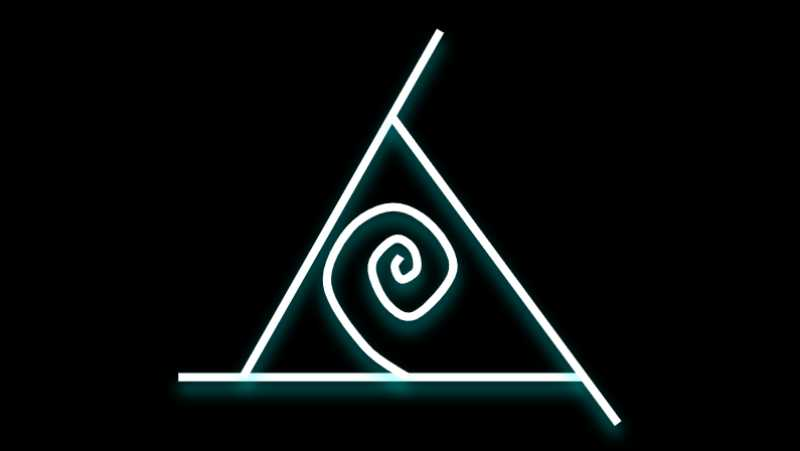
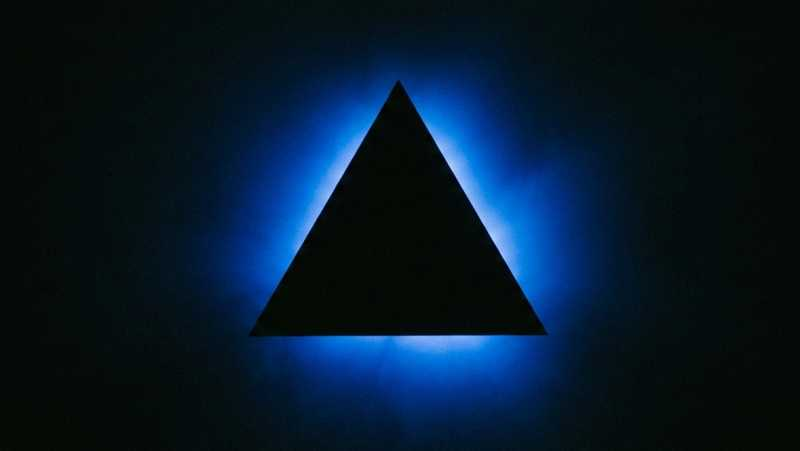
update

diff --git a/content/en/research/other/alien/ra/session-055.md b/content/en/research/other/alien/ra/session-055.md
@@ -12,164 +12,68 @@ tags: ['pyramids', '']
 June 5, 1981
 
 
-55.1 Ra: Carla is physically weaker due to to psychic attack. 
 
-<!-- This instrument’s vital energies have not been affected, however, due to the aid of those present in healing work. This instrument will apparently be subject to such weakness distortions due to incarnative processes which predispose the body complex towards weakness distortions. -->
+{{< l a="Ra" >}} Carla is physically weaker due to psychic attack.
+{{< /l >}}
 
+{{< r a="Don Elkins" >}} How can we alleviate this psychic attack or help Carla?{{< /r >}}
 
-55.2 Questioner: How can we alleviate this psychic attack or help Carla?
+{{< l a="Ra" >}}She appreciates each entity’s caring. A caring atmosphere offers the greatest contrast to the discomfort of such psychic attacks, being the reciprocal, that is, the atmosphere of psychic support. This each of you do as a subconscious function of true attitudinal, mental, emotional, and spiritual distortions towards this instrument. There is no magic greater than honest distortion toward love.{{< /l >}}
 
-Ra: She appreciates each entity’s caring. 
+{{< r a="Don Elkins" >}} I want to ask a couple questions about previous material that I didn’t understand. I’m hoping that this will clear up my understanding somewhat with respect to the mental configurations with which we have been dealing. You stated, “However, this is a risk for the Orion entities due to the frequency with which the harvestable negative planetary entities then attempt to bid or order the Orion contact just as these entities bid planetary negative contacts.” Can you explain the mechanisms that affect polarization in consciousness with respect to this statement?{{< /r >}}
 
-A caring atmosphere offers the greatest contrast to the discomfort of such psychic attacks, being the reciprocal, that is, the atmosphere of psychic support.
+{{< l a="Ra" >}} The negative polarization is greatly aided by the subjugation or enslavement of other-selves. The potential between two negatively polarized entities is such that the entity which enslaves the other or bids the other gains in negative polarity. The entity so bidden or enslaved, in serving an other-self, will necessarily lose negative polarity although it will gain in desire for further negative polarization. This desire will then tend to create opportunities to regain negative polarity.{{< /l >}}
 
-This each of you do as a subconscious function of true attitudinal, mental, emotional, and spiritual distortions towards this instrument. There is no magic greater than honest distortion toward love.
+{{< r a="Don Elkins" >}} The third-density entity on this planet calls an Orion Crusader. Is this a polarizing type of action that affects both entities?{{< /r >}}
 
+{{< l a="Ra" >}} This is incorrect. The calling mechanism is not congruent at all with the bidding mechanism. In the calling, the entity which calls is a suppliant neophyte asking for aid in negative understanding, if you may excuse this misnomer. The Orion response increases its negative polarity as it is disseminating the negative philosophy, thereby enslaving or bidding the entity calling. There are instances, however, when the contact becomes a contest which is prototypical of negativity. In this contest, the caller will attempt, not to ask for aid, but to demand results. Since the third-density negatively oriented harvestable entity has at its disposal an incarnative experiential nexus and since Orion Crusaders are, in a great extent, bound by the first distortion in order to progress, the Orion entity is vulnerable to such bidding if properly done. In this case, the third-density entity becomes master and the Orion Crusader becomes entrapped and can be bid. This is rare. However, when it has occurred, the Orion entity or social memory complex involved has experienced loss of negative polarity in proportion to the strength of the bidding third-density entity.{{< /l >}}
 
-55.3 Questioner: I want to ask a couple questions about previous material that I didn’t understand. I’m hoping that this will clear up my understanding somewhat with respect to the mental configurations with which we have been dealing.
+{{< r a="Don Elkins" >}} You mentioned that this will work when the bidding is properly done. What did you mean?{{< /r >}}
 
-you stated, “However, this is a risk for the Orion entities due to the frequency with which the harvestable negative planetary entities then attempt to bid or order the Orion contact just as these entities bid planetary negative contacts.” Can you explain the mechanisms that affect polarization in consciousness with respect to this statement?
+{{< l a="Ra" >}} To properly bid is to be properly negative. The percentage of thought and behavior involving service to self must approach 99% in order for a third-density negative entity to be properly configured for such a contest of bidding.{{< /l >}}
 
-Ra:  The negative polarization is greatly aided by the subjugation or enslavement of other-selves. The potential between two negatively polarized entities is such that the entity which enslaves the other or bids the other gains in negative polarity.
+{{< r a="Don Elkins" >}} What method of communication with the Orion entity would a negative bidder of this type use?{{< /r >}}
 
-The entity so bidden or enslaved, in serving an other-self, will necessarily lose negative polarity although it will gain in desire for further negative polarization. This desire will then tend to create opportunities to regain negative polarity.
+{{< l a="Ra" >}} The two most usual types of bidding are: 1. The use of perversions of sexual magic; 2. The use of perversions of ritual magic. In each case, the key to success is the purity of the will of the bidder. The concentration upon victory over the servant must be nearly perfect.{{< /l >}}
 
+{{< r a="Don Elkins" >}} In the polarizations in consciousness is there any analogy with respect to this bidding contact with the one we are doing now with Ra?{{< /r >}}
 
+{{< l a="Ra" >}} There is no relationship between this type of contact and the bidding process. This contact is typical of the Brothers and Sisters of Sorrow wherein those receiving the contact have attempted to prepare for such contact by sacrificing extraneous, self-oriented distortions in order to be of service. The Ra social memory complex offers itself also as a function of its desire to serve. Both the caller and the contact are filled with gratitude at the opportunity of serving others. This does not mean that either the callers or those of our group approach a perfection or purity as that of the bidding process. The calling group may have many distortions and be working with much catalyst, as may those of Ra. The overriding desire to serve others, bonded with the unique harmonics of this group’s vibratory complexes, gives us the opportunity to serve as one channel for the One Infinite Creator. Things come not to those positively oriented but through such beings.{{< /l >}}
 
-55.4 Questioner: The 3rd-density entity on this planet calls an Orion Crusader. Is this a polarizing type of action that affects both entities?
+{{< r a="Don Elkins" >}} You stated at an earlier time “until transfers of energy of all types have been experienced and mastered to a great extent, there will be blockages in the blue and indigo radiations.” You had stated that “we (that is Ra) had been aided by shapes such as the pyramid, so that we could aid your people with a shape such as the pyramid.” These shapes have been mentioned many, many times and you have also stated that the shapes themselves aren’t of too much consequence. I see a relation between these shapes and the energies that we have been studying with respect to the body, and I would like to ask a few questions on the pyramid to see if I might get an entry into some of this understanding. You stated, “You will find the intersection of the triangle which is at the first level on each of the four sides forms a diamond in a plane which is horizontal.” Can you tell me what you meant by the word, intersection?{{< /r >}}
 
-Ra:  This is incorrect. 
+{{< l a="Ra" >}} Your mathematics and arithmetic have a paucity of configurative descriptions which we might use. The purpose of the shapes is to work with time/space portions of the mind/body/spirit complex. Therefore, the intersection is both space/time and time/space oriented and thus is expressed in 3D geometry by 2 intersections which, when projected in both time/space and space/time, form one point.{{< /l >}}
 
-The calling mechanism is not congruent at all with the bidding mechanism. 
+{{< r a="Don Elkins" >}} I have calculated this point to be 1/6 of the height of the triangle that forms the side of the pyramid.{{< /r >}}
 
-In the calling, the entity which calls is a suppliant neophyte asking for aid in negative understanding, if you may excuse this misnomer. 
+{{< l a="Ra" >}} Your calculations are substantially correct and we are pleased at your perspicacity.{{< /l >}}
 
-The Orion response increases its negative polarity as it is disseminating the negative philosophy, thereby enslaving or bidding the entity calling.
+{{< r a="Don Elkins" >}} This means that the Queen’s Chamber in the Giza Pyramid would be the chamber for initiation. Is this correct?{{< /r >}}
 
-There are instances, however, when the contact becomes a contest which is prototypical of negativity. 
+{{< l a="Ra" >}} Again, you penetrate the outer teaching. The Queen’s Chamber would not be appropriate or useful for healing work as that work involves the use of energy in a more synergic configuration rather than the configuration of the centered being.{{< /l >}}
 
-In this contest, the caller will attempt, not to ask for aid, but to demand results. Since the third-density negatively oriented harvestable entity has at its disposal an incarnative experiential nexus and since Orion Crusaders are, in a great extent, bound by the first distortion in order to progress, the Orion entity is vulnerable to such bidding if properly done. In this case, the third-density entity becomes master and the Orion Crusader becomes entrapped and can be bid. 
+{{< r a="Don Elkins" >}} So the healing work is done in the King’s Chamber?{{< /r >}}
 
-This is rare. 
+{{< l a="Ra" >}} Yes.{{< /l >}}
 
-However, when it has occurred, the Orion entity or social memory complex involved has experienced loss of negative polarity in proportion to the strength of the bidding third-density entity.
+{{< r a="Don Elkins" >}} There is a chamber below the bottom level of the pyramid, down below ground, that appears to be roughly in line with the King’s Chamber.{{< /r >}}
 
+{{< l a="Ra" >}} That is a resonating chamber. The bottom of such a structure, in order to cause the appropriate distortions for healing catalyst, shall be open.{{< /l >}}
 
-55.5 Questioner: You mentioned that this will work when the bidding is properly done. What did you mean?
+{{< r a="Don Elkins" >}} The book, Life Force in the Great Pyramid, they have related the ankh shape with a resonance in the pyramid. Is this a correct analysis?{{< /r >}}
 
-Ra:  To properly bid is to be properly negative. 
+{{< l a="Ra" >}} We have scanned your mind and find the phrase “working with crayons.” This would be applicable. There is only one significance to these shapes such as the crux ansata; that is the placing in coded form of mathematical relationships.{{< /l >}}
 
-The percentage of thought and behavior involving service to self must approach 99% in order for a third-density negative entity to be properly configured for such a contest of bidding.
+{{< r a="Don Elkins" >}} Is the 76° 18′ angle at the apex of the pyramid a critical angle?{{< /r >}}
 
+{{< l a="Ra" >}} For the healing work intended, this angle is appropriate.{{< /l >}}
 
-55.6 Questioner: What method of communication with the Orion entity would a negative bidder of this type use?
+{{< r a="Don Elkins" >}} Why does the King’s Chamber have the various small chambers above it?{{< /r >}}
 
+{{< l a="Ra" >}} The positioning of the entity to be healed is such that the life energies are in a position to be briefly interrupted or intersected by light. This light then may, by the catalyst of the healer with the crystal, manipulate the auric forces, as you may call the various energy centers, in such a way that if the entity to be healed wills it so, corrections may take place. Then the entity is reprotected by its own, now less distorted, energy field and is able to go its way. The process by which this is done involves bringing the entity to be healed to an equilibrium. This involves temperature, barometric pressure, and electrical charged atmosphere. The first two requirements are controlled by the system of chimneys.{{< /l >}}
 
-Ra:  The two most usual types of bidding are:
+{{< r a="Don Elkins" >}} Does this healing work by affecting the energy centers in such a way that they are unblocked so as to perfect the seven bodies that they generate and, therefore, bring the entity being healed into proper balance?{{< /r >}}
 
-1. The use of perversions of sexual magic
-2. The use of perversions of ritual magic
+{{< l a="Ra" >}} Carla is tired. The distorted configuration of the energy centers is intended to be temporarily interrupted. The patient then can grasp the baton and take the balanced route and to walk thence with the distortions towards dis-ease of mind, body, and spirit greatly lessened. The catalytic effect of the charged atmosphere and the crystal directed by the healer must be taken into consideration as integral portions of this process. For the bringing back of the entity to a configuration of conscious awareness would not be accomplished after the reorganization possibilities are offered without the healer’s presence and directed will.{{< /l >}}
 
-In each case, the key to success is the purity of the will of the bidder. 
-
-The concentration upon victory over the servant must be nearly perfect.
-
-
-55.7 Questioner: in the polarizations in consciousness is there any analogy with respect to this bidding contact with the one we are doing now with Ra?
-
-Ra:  There is no relationship between this type of contact and the bidding process. 
-
-This contact is a typical of the Brothers and Sisters of Sorrow wherein those receiving the contact have attempted to prepare for such contact by sacrificing extraneous, self-oriented distortions in order to be of service.
-
-The Ra social memory complex offers itself also as a function of its desire to serve. 
-
-Both the caller and the contact are filled with gratitude at the opportunity of serving others.
-
-This does not mean that either the callers or those of our group approach a perfection or purity as that of the bidding process.
-
-The calling group may have many distortions and be working with much catalyst, as may those of Ra. 
-
-**The overriding desire to serve others**, bonded with the unique harmonics of this group’s vibratory complexes, gives us the opportunity to serve as one channel for the One Infinite Creator.
-
-Things come not to those positively oriented but through such beings.
-
-
-55.8 Questioner: You stated an earlier time “until transfers of energy of all types have been experienced and mastered to a great extent, there will be blockages in the blue and indigo radiations.” 
-
-Ra:  At this space/time we have not covered the appropriate intermediate material.
-
-you had stated that “we (that is Ra) had been aided by shapes such as the pyramid, so that we could aid your people with a shape such as the pyramid.” These shapes have been mentioned many, many times and you have also stated that the shapes themselves aren’t of too much consequence. I see a relation between these shapes and the energies that we have been studying with respect to the body, and I would like to ask a few questions on the pyramid to see if I might get an entry into some of this understanding.
-
-You stated, “You will find the intersection of the triangle which is at the first level on each of the four sides forms a diamond in a plane which is horizontal.” Can you tell me what you meant by the word, intersection?
-
-
-Ra:  Your mathematics and arithmetic have a paucity of configurative descriptions which we might use. 
-
-The purpose of the shapes is to work with time/space portions of the mind/body/spirit complex. 
-
-Therefore, the intersection is both space/time and time/space oriented and thus is expressed in 3D geometry by 2 intersections which, when projected in both time/space and space/time, form one point.
-
-
-55.10 Questioner: I have calculated this point to be 1/6 of the height of the triangle that forms the side of the pyramid.
-
-Ra:  Your calculations are substantially correct and we are pleased at your perspicacity.
-
-
-55.11 Questioner: This means that the Queen’s Chamber in the Giza Pyramid would be the chamber for initiation. Is this correct?
-
-Ra:  Again, you penetrate the outer teaching.
-
-The Queen’s Chamber would not be appropriate or useful for healing work as that work involves the use of energy in a more synergic configuration rather than the configuration of the centered being.
-
-
-55.12 Questioner: So the healing work is done in the King’s Chamber?
-
-Ra:  Yes
-
-55.13 Questioner: There is a chamber below the bottom level of the pyramid, down below ground, that appears to be roughly in line with the King’s Chamber.
-
-Ra: That is a resonating chamber. The bottom of such a structure, in order to cause the appropriate distortions for healing catalyst, shall be open.
-
-55.14 Questioner: The book, Life Force in the Great Pyramid, they have related the ankh shape with a resonance in the pyramid. Is this a correct analysis?
-
-Ra:  We have scanned your mind and find the phrase “working with crayons.” This would be applicable. 
-
-There is only one significance to these shapes such as the crux ansata; that is the placing in coded form of mathematical relationships.
-
-
-55.15 Questioner: Is the 76° 18′ angle at the apex of the pyramid a critical angle?
-
-Ra:  For the healing work intended, this angle is appropriate.
-
-
-55.16 Questioner: Why does the King’s Chamber have the various small chambers above it?
-
-Ra: The positioning of the entity to be healed is such that the life energies are in a position to be briefly interrupted or intersected by light. 
-
-This light then may, by the catalyst of the healer with the crystal, manipulate the aural forces, as you may call the various energy centers, in such a way that if the entity to be healed wills it so, corrections may take place. 
-
-Then the entity is reprotected by its own, now less distorted, energy field and is able to go its way.
-
-The process by which this is done involves bringing the entity to be healed to an equilibrium. 
-
-This involves:
-- temperature
-- barometric pressure
-- electrical charged atmosphere
-
-The first 2 requirements are controlled by the system of chimneys.
-
-
-
-55.17 Questioner: Does this healing work by affecting the energy centers in such a way that they are unblocked so as to perfect the seven bodies that they generate and, therefore, bring the entity being healed into proper balance?
-
-Ra: Carla is tired. 
-
-The distorted configuration of the energy centers is intended to be temporarily interrupted.
-
-The patient then can grasp the baton and take the balanced route and to walk thence with the distortions towards dis-ease of mind, body, and spirit greatly lessened.
-
-The catalytic effect of the charged atmosphere and the crystal directed by the healer must be taken into consideration as integral portions of this process.
-
-For the bringing back of the entity to a configuration of conscious awareness would not be accomplished after the reorganization possibilities are offered without the healer’s presence and directed will. 
 

diff --git a/content/en/research/other/alien/ra/session-023.md b/content/en/research/other/alien/ra/session-023.md
@@ -14,10 +14,10 @@ tags: ['pyramid healing', '']
 February 11, 1981
 
 
-## Session 23
-
 {{< r a="Don Elkins" >}}
-You were speaking yesterday of the first contact made by the Confederation which occurred during our third major cycle. You stated that you appeared in the skies over Egypt at the same time, approximately, aid was first given to Atlantis. 
+You were speaking yesterday of the first contact made by the Confederation which occurred during our third major cycle. 
+
+You stated that you appeared in the skies over Egypt at the same time, approximately, aid was first given to Atlantis. 
 
 Can you tell me why you went to Egypt and your attitude and thinking when you first went to Egypt?{{< /r >}}
 

diff --git a/content/en/research/other/disembodied/seth/_index.md b/content/en/research/other/disembodied/seth/_index.md
@@ -1,7 +1,8 @@
 ---
-title: "Seth"
-description: "Seth is a disembodied mind i.e. dead guy"
+title: "Disembodied Sources"
+description: "Dead People"
 c: "purple"
+image: "/photos/bio/tomb.jpg"
 weight: 15
 a: "Seth"
 ---

diff --git a/content/en/research/other/alien/ra/session-021.md b/content/en/research/other/alien/ra/session-021.md
@@ -14,11 +14,6 @@ tags: ['Lemuria']
 
 February 10, 1981
 
-
----
-
-## Session 21
-
 {{< r a="Don Elkins" >}}Would the future content of this book be affected in any way if the instrument reads the material we have already obtained?{{< /r >}}
 
 {{< l a="Ra" >}}The future communications which we offer through Carla have no connection with Carla's mind complex. 

diff --git a/content/en/research/other/disembodied/seth/seth-speaks/chapter-01.md b/content/en/research/other/disembodied/seth/seth-speaks/chapter-01.md
@@ -1,7 +1,7 @@
 ---
 heading: Chapter 1
-title: "Introduction"
-description: "Seth is a disembodied mind i.e. dead guy"
+title: "I Do Not Have a Physical Body"
+description: "I can quite literally be called a ghost writer"
 c: "purple"
 weight: 3
 a: "Seth"

diff --git a/content/en/research/other/alien/ra/session-020.md b/content/en/research/other/alien/ra/session-020.md
@@ -14,9 +14,6 @@ tags: ['densities', 'Dewey Larson']
 February 9, 1981
 
 
-Enclose the sentences into conservations with Ra enlcosed in hugo shortcode {{< l a="Ra" >}} and Questioner as {{< r a="Don Elkins" >}} do not include the initial numbers:
-
-
 {{< r a="Don Elkins" >}}What happened to the 2nd-density entities who were on this planet who were unharvestable— I assume there were some that didn’t make the harvest into the 3rd density.{{< /r >}}
 
 {{< l a="Ra" >}}The 2nd density is able to repeat during 3rd density a portion of its cycle.{{< /l >}}

diff --git a/content/en/research/other/_index.md b/content/en/research/other/_index.md
@@ -1,7 +1,7 @@
 ---
 title: "Other Sources"
 linkTitle: "Others"
-description: "Dialectics analyzes the totality of knowledge. This is why we scrape the ideas from fringe philosophies like New Age, aliens, etc"
+description: "Dialectics analyzes the totality of knowledge. This is why we scrape the ideas from fringe philosophies like New Age, aliens, enlightened dead people, etc"
 c: "darkslategray"
 weight: 150
 a: "Bashar"

diff --git a/content/en/research/other/alien/_index.md b/content/en/research/other/alien/_index.md
@@ -1,7 +1,9 @@
 ---
 title: "Alien Sources of information"
 linkTitle: Aliens
+image: "/photos/alien/treaty.jpg"
 description: "Buddhism and Hinduism allows for the existence of intelligent non-human beings by default."
 c: "darkslategray"
 a: Bashar
 ---
+

diff --git a/content/en/research/other/alien/essassani/transmissions/1986/_index.md b/content/en/research/other/alien/essassani/transmissions/1986/_index.md
@@ -4,4 +4,3 @@ weight: 86
 description: ""
 image: "/covers/essassani.jpg"
 ---
-